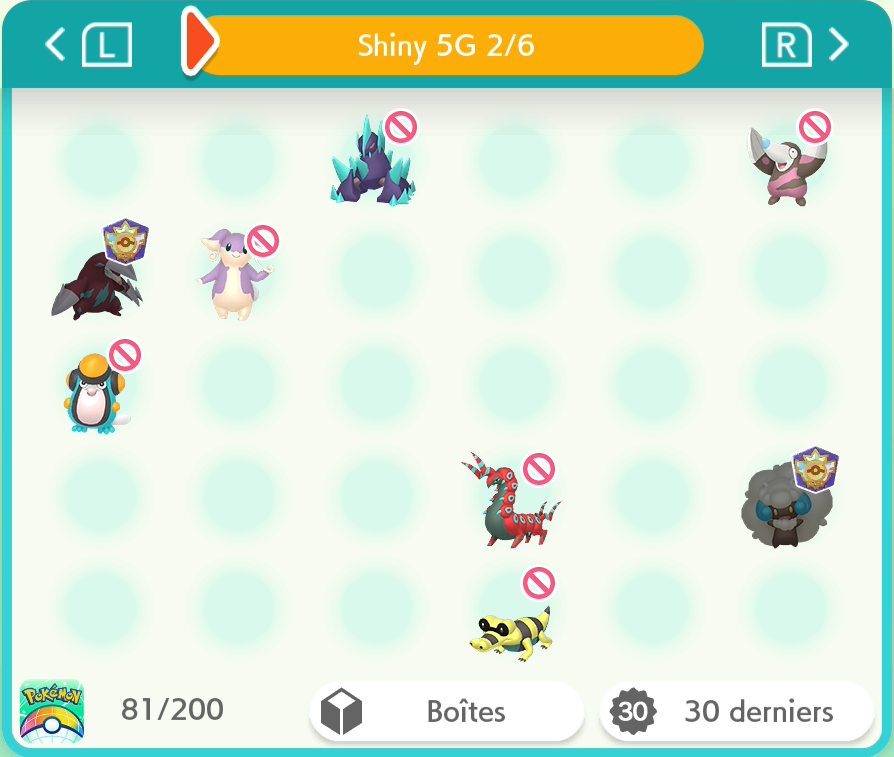
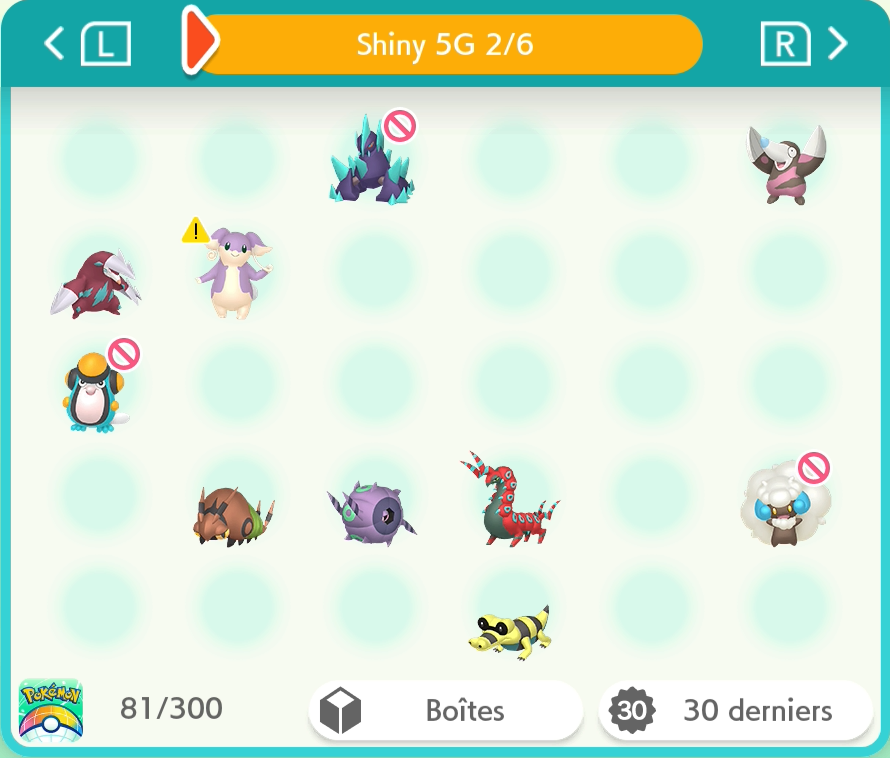
NOUVEAU Motif de Prismillon : Motif Fantaisie, Sécheresse & Verdure | 5G : Venipatte & Scobolide | 6G : Lépidonille, Pérégrain & Prismillon (Fantaisie) | 7G : Sovkipou

diff --git a/README.md b/README.md
@@ -2,8 +2,8 @@
 
 Pokémon-Elément-Sh -> <a href="https://www.pokemon-element-sh.fr/profil/karyno21" target="_blank">Karyno21</a>
 
-↓ Dernière Update le 09/10/2026 à 14h10 ↓
-### Dex 1-9G [286/1001] +25
+↓ Dernière Update le 09/10/2026 à 23h59 ↓
+### Dex 1-9G [292/1001] +31
 
 | Gen | Prog | Notes |
 |:--:|:--:|---|
@@ -11,9 +11,9 @@ Pokémon-Elément-Sh -> <a href="https://www.pokemon-element-sh.fr/profil/karyno
 |2G|38/100|+6 Celebi, Raikou, Entei, Suicune, Lugia & Ho-Oh|
 |3G|26/135|+4 Spinda, Regirock, Regice, Registeel & Latias|
 |4G|20/107||
-|5G|29/155|+1 Genesect (JP Event)|
-|6G|27/71|+5 Amagara, Dragmara, Ptyranidur, Volcanion (HOME) & Diancie (JP Event)|
-|7G|19/84|+3 Type:0, Silvallié & Mandrillon|
+|5G|31/155|+3 Genesect (JP Event), Venipatte & Scobolide|
+|6G|30/71|+8 Amagara, Dragmara, Ptyranidur, Volcanion (HOME), Diancie (JP Event), Lépidonille, Pérégrain & Prismillon (Fantaisie)|
+|7G|20/84|+4 Type:0, Silvallié, Mandrillon & Sovkipou|
 |8G|33/90||
 |9G|46/108|+1 Amassel|
 
@@ -26,7 +26,37 @@ Pokémon-Elément-Sh -> <a href="https://www.pokemon-element-sh.fr/profil/karyno
 |Hisui|17/17|Complété|
 |Paldea|4/4|Complété|
 
-### Total [344/1059] +25
+### Total [350/1059] +31
+
+<details>
+  <summary>Bonus - Motif de Prismillon</summary>
+
+### Motif de Prismillon [3/19] +3
+
+| Motif | Prog |
+|:--:|:--:|
+|Motif Archipel||
+|Motif Banquise||
+|Motif Blizzard||
+|Motif Continent||
+|Motif Cyclone||
+|Motif Delta||
+|Motif Fantaisie (événementiel / forme de base dans Écarlate et Violet)|Obtenu|
+|Motif Floraison (motif de base de nombreuses régions, dont la France)||
+|Motif Glace||
+|Motif Jungle||
+|Motif Mangrove||
+|Motif Métropole||
+|Motif Monarchie||
+|Motif Poké Ball (événementiel / Shiny Lock)|❌|
+|Motif Rivage||
+|Motif Sable||
+|Motif Sécheresse|Obtenu|
+|Motif Soleil Levant||
+|Motif Verdure|Obtenu|
+|Motif Zénith||
+
+</details>
 
 ---
 
